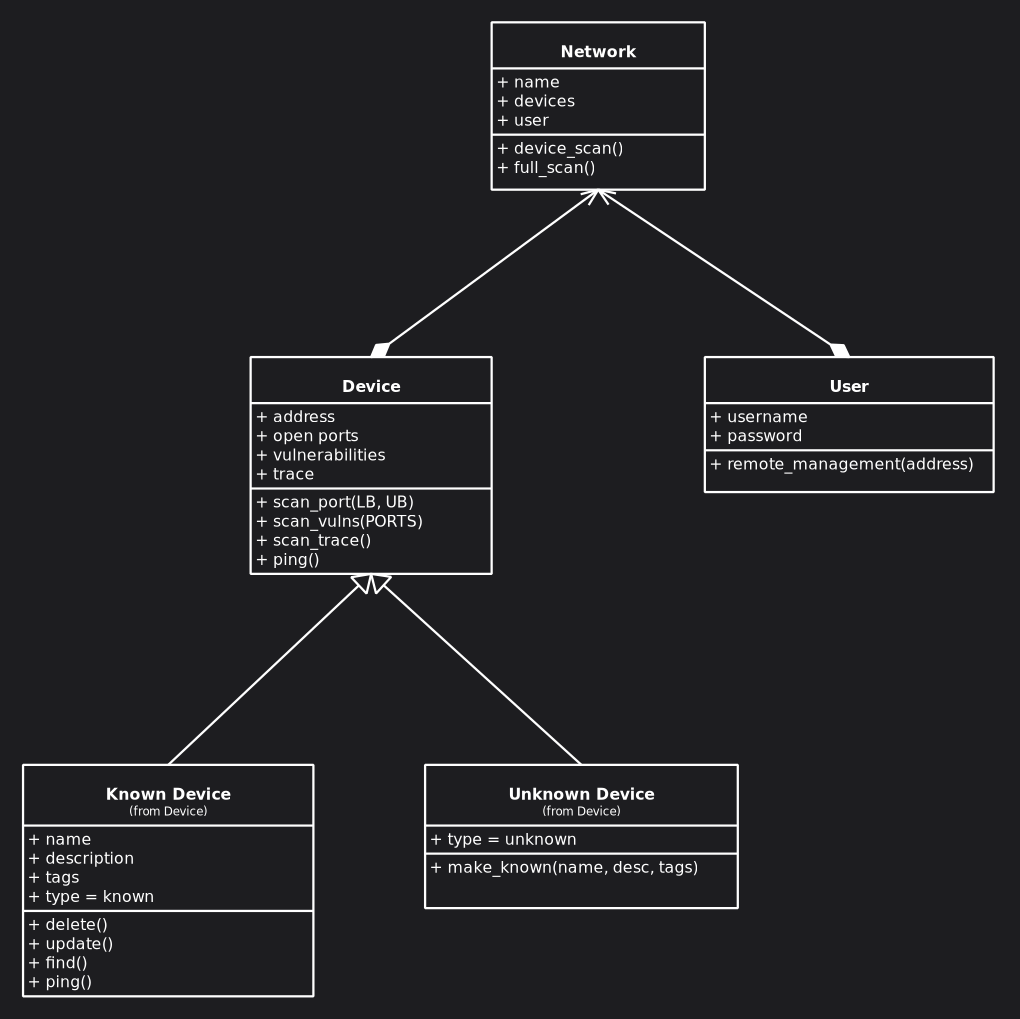
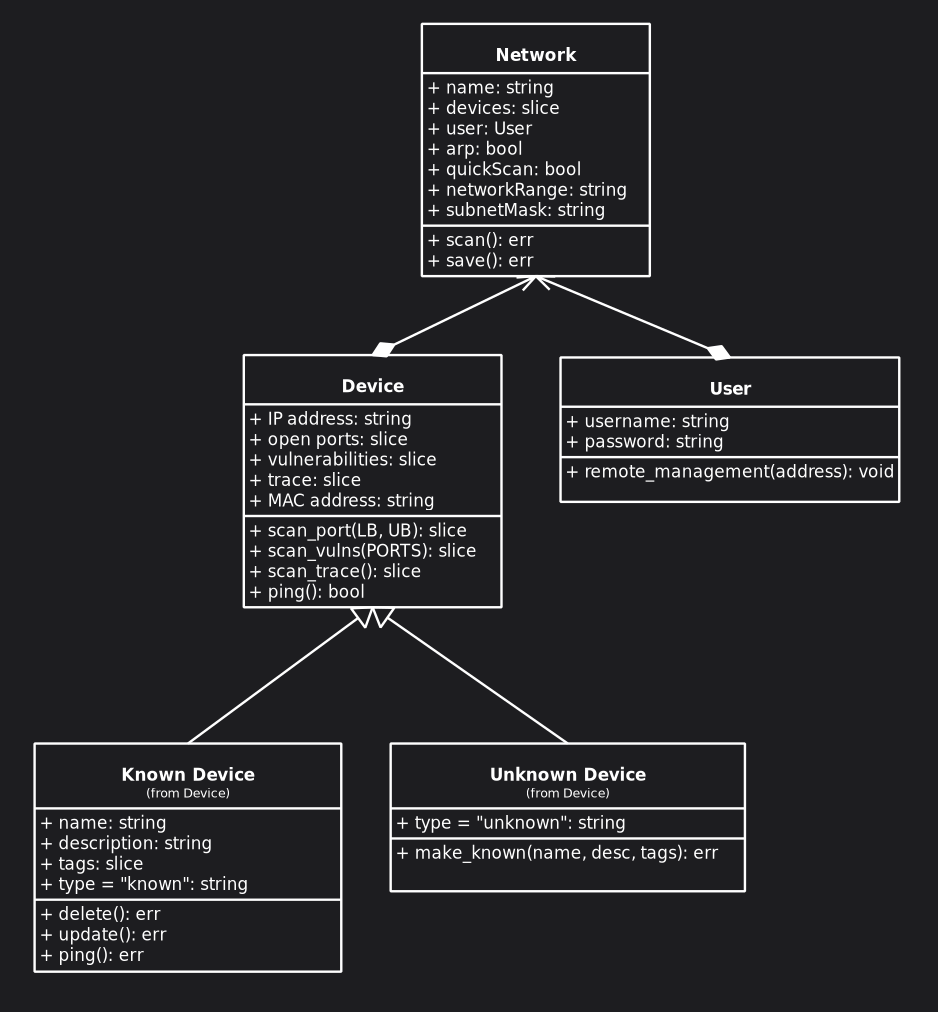
Documented Design - UI & subsequent OOP update

diff --git a/writeup/2. Documented Design.md b/writeup/2. Documented Design.md
@@ -16,7 +16,11 @@ Program Flow Diagram
 
 User Interface Design
 ---
+I believe that development of an application should always start at the user level, what does the user want the program to do and how does the user want to interact with it. For this reason, the first thing that I started designing for my app was the UI. Below is a layout that I think fulfills Gary's success criteria (dark mode, no submenus and everything labeled).  
+There are three text inputs at the top to enter your username and password when opening a remote shell and to define the network range for the scan. There is a start scan button which will change colour when a scan is in progress, and a settings button to configure what type of scan you would like to run. Lastly there is also a dropdown for the network profile so that the known device can be saved for each network that Gary is on.  
+The devices are all saved to a certain network profile, which can be updated with the save button. The filter button next to it is used to filter the shown devices, and when a device is clicked, the details are loaded into the larger display to the left.
 
+![Initial UI Design](./images/docdesign_ui.png)
 
 <br>
 
@@ -35,8 +39,8 @@ Algorithm Design
 OOP Design
 ---
 My project definitely calls for OOP as the scanning tool effectively models the network. Below is a UML diagram to visualise my objects and their relationships.  
-The network profile is made up of device objects and a user object **(composition)**. Gary will be able to select which network profile is used, and therefore what devices are already known.  
-The devices class has two child classes **(inheritance/generalisation)** which inherit its attributes and methods. These also have scanning operations/methods, and the ping method is overridden the the Unknown Device child class **(overiding polymorphism)**. This is so that the known devices can have a quick TCP SYN Scan connection on a known open port, instead of a standard ICMP ping which all other devices would recieve. If the device does not respond to the port ping, then the scan falls back to ICMP to check if the service has stopped, or if the device is offline. 
+The network profile is made up of device objects and a user object **(composition)**. Gary will be able to select which network profile is used, and therefore what devices are already known and the scan settings.  
+The device class has two child classes **(inheritance/generalisation)** which inherit its attributes and methods. These also have scanning operations/methods, and the ping method is overridden the the Unknown Device child class **(overiding polymorphism)**. This is so that the known devices can have a quick TCP SYN Scan connection on a known open port, instead of a standard ICMP ping which all other devices would recieve. If the device does not respond to the port ping, then the scan falls back to ICMP to check if the service has stopped, or if the device is offline. 
 
 ![UML Class Diagram](./images/docdesign_oop.png)
 
